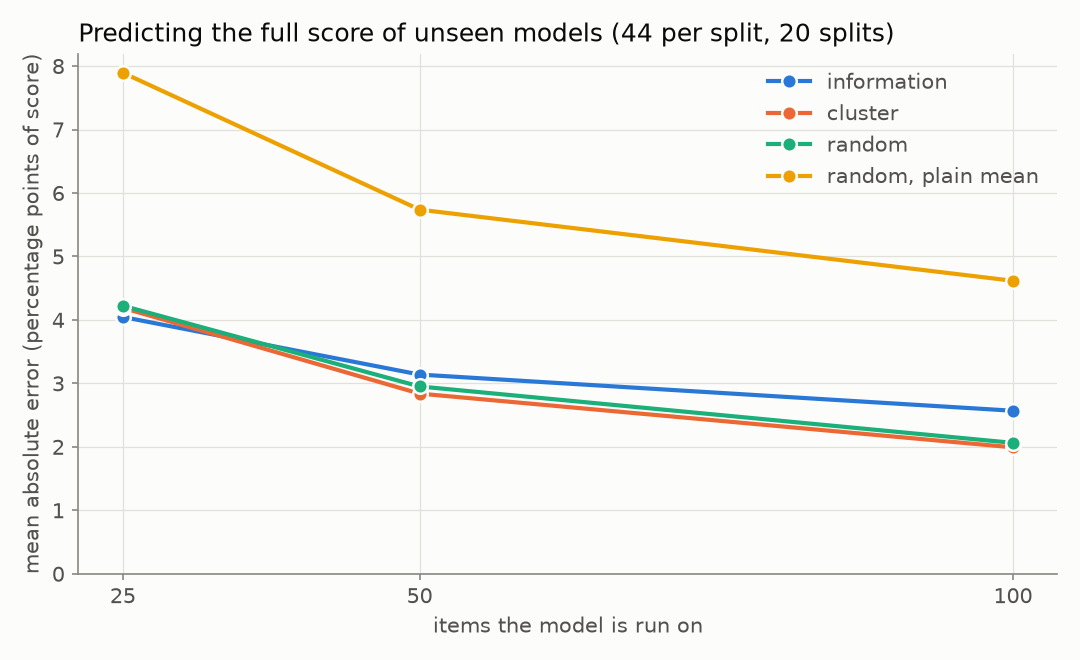
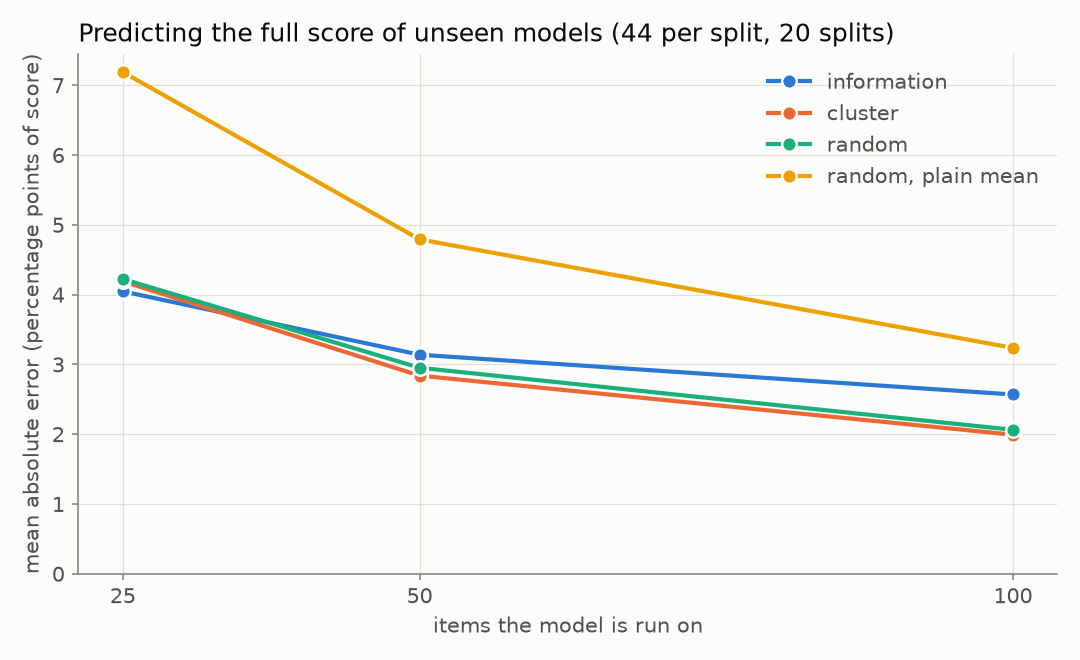
Re-run the subset experiment with the fair baseline and rewrite its results

diff --git a/README.md b/README.md
@@ -218,14 +218,17 @@ reported next to a baseline that predicts each item's solve rate and ignores the
 **Subsets.** `information` visits nine abilities spread over the fitted models (their 10 % to
 90 % quantiles) in turn and takes the unused item with the most information at each;
 `cluster` runs k-means on the items' fitted curves at those abilities and takes the item
-nearest each centre; `random` draws items uniformly. The full score of a new model is then
-estimated in the spirit of the IRT estimator of tinyBenchmarks (Polo et al. 2024,
-[arXiv:2402.14992](https://arxiv.org/abs/2402.14992)): its answers on the subset count as they
-are, and every other item counts with the probability the fit gives it. Here that probability
-is averaged over the model's ability posterior instead of being evaluated at a point estimate.
+nearest each centre; `random` draws items uniformly. All three choose among the items the fit
+estimated. The full score of a new model is then estimated in the spirit of the IRT estimator
+of tinyBenchmarks (Polo et al. 2024, [arXiv:2402.14992](https://arxiv.org/abs/2402.14992)):
+its answers on the subset count as they are, and every other item counts with the probability
+the fit gives it. Here that probability is averaged over the model's ability posterior instead
+of being evaluated at a point estimate.
 The evaluation holds out models, not cells: the IRT model is fitted on the training models
 only, items are chosen from that fit only, and the error is measured on models the fit never
-saw.
+saw. Its baseline without a model, the plain mean of the answers on a random subset, draws
+from every item of the benchmark, including those solved by all or by none, because the true
+score counts them too.
 
 **Joint maximum likelihood** (`fit_jml`) estimates one ability per model together with the item
 parameters, with a ridge penalty that keeps perfect and zero scores finite. It is there for
@@ -263,7 +266,7 @@ python scripts/fetch_swebench_verified.py data
 python examples/swebench_verified_study.py data/swebench_verified.csv --json study.json --plots docs
 ```
 
-The study took 112 seconds here. All numbers below are from that run.
+The study took 22 seconds here. All numbers below are from that run.
 
 **Items that carry no information.** No instance is solved by every submission. 26 of the 500
 are solved by none.
@@ -324,29 +327,29 @@ Joint and marginal 1PL fits agree: their abilities correlate at 0.99995 and thei
 **Predicting the score of unseen submissions from a few items.** 20 random splits into 130
 submissions to fit on and 44 to predict; mean absolute error of the predicted full score, in
 percentage points, with the standard deviation over splits in brackets. For `random` the error
-is averaged over 10 subsets per split.
+is averaged over 10 subsets per split. The last column uses no model: it is the plain mean of
+the answers on 10 random subsets per split, drawn from all 500 items.
 
 | items | information | cluster | random | random, plain mean |
 |---:|---:|---:|---:|---:|
-| 25 | 4.05 (0.42) | 4.19 (0.46) | 4.22 (0.21) | 7.89 (0.99) |
-| 50 | 3.14 (0.47) | 2.84 (0.39) | 2.95 (0.12) | 5.74 (0.70) |
-| 100 | 2.57 (0.43) | 1.99 (0.27) | 2.06 (0.09) | 4.62 (0.65) |
+| 25 | 4.05 (0.42) | 4.19 (0.46) | 4.22 (0.21) | 7.19 (0.76) |
+| 50 | 3.14 (0.47) | 2.84 (0.39) | 2.95 (0.12) | 4.79 (0.36) |
+| 100 | 2.57 (0.43) | 1.99 (0.27) | 2.06 (0.09) | 3.24 (0.34) |
 
 ![Error of the predicted score against the number of items](docs/subsets.png)
 
-What this shows: on a random subset, the IRT estimator has about half the error of the plain
-mean of the answers (4.2 against 7.9 points at 25 items). Choosing the items did not help
-beyond that. Clustering is within noise of random subsets at every size, and the
-information-based choice is about the same at 25 items and worse at 100. So for this
-benchmark the gain comes from the estimator, not from the selection, and 25 items leave an
-error of about 4 points.
+What this shows: on a random subset, the IRT estimator has about 60 % of the error of the
+plain mean of the answers on a random subset of the same size (4.2 against 7.2 points at 25
+items, 3.0 against 4.8 at 50, 2.1 against 3.2 at 100). Choosing the items did not help beyond
+that. Clustering is within noise of random subsets at every size, and the information-based
+choice is about the same at 25 items and worse at 100. So for this benchmark the gain comes
+from the estimator, not from the selection, and 25 items leave an error of about 4 points.
 
-A caveat on the first comparison: the plain-mean baseline in this table draws its random items
-only among the items the fit could estimate, which leaves out the 26 items that no submission
-solves, while the true score counts all 500. That makes the plain mean run high and overstates
-its error, so "about half" is an upper bound on the gain. The comparison still has to be re-run
-with the baseline drawn from every item; until then read the estimator as clearly better than
-the plain mean, by a margin smaller than the table shows.
+The plain mean is drawn from all 500 items, including the 26 that no submission solves, so it
+is an unbiased estimate of the score and its error is sampling error only. Against it the
+estimator is worth a little more than twice the items: on 25 random items it does somewhat
+better than the plain mean on 50 (4.2 against 4.8 points), and on 50 somewhat better than the
+plain mean on 100 (3.0 against 3.2).
 
 ## Limitations
 
